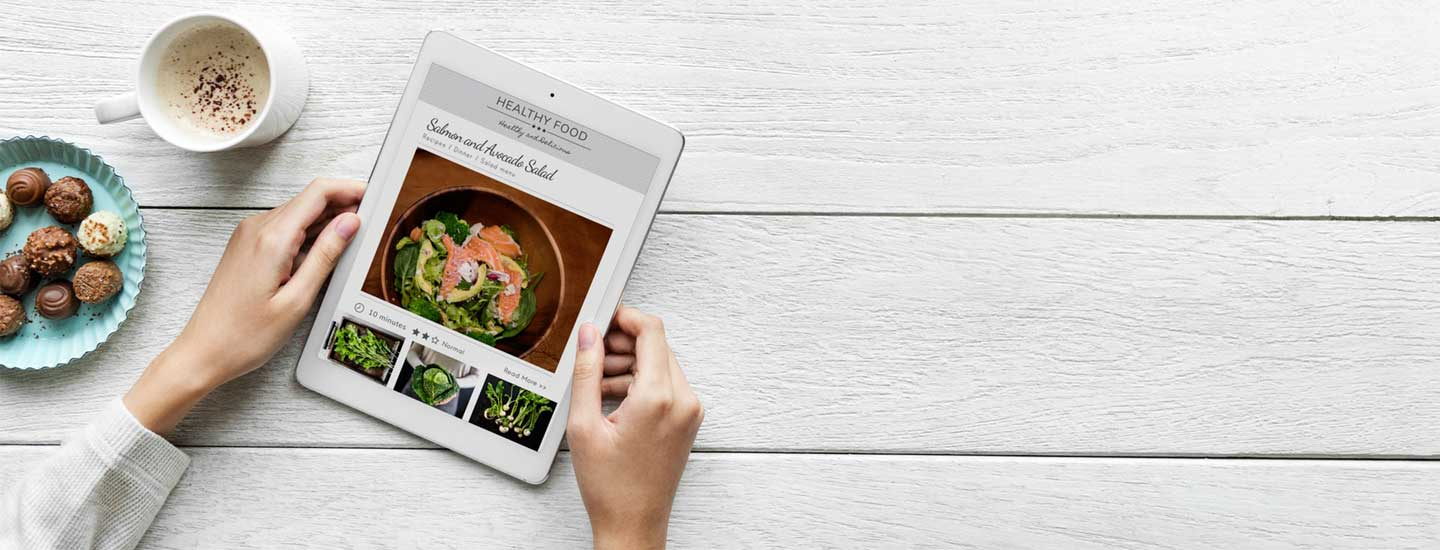
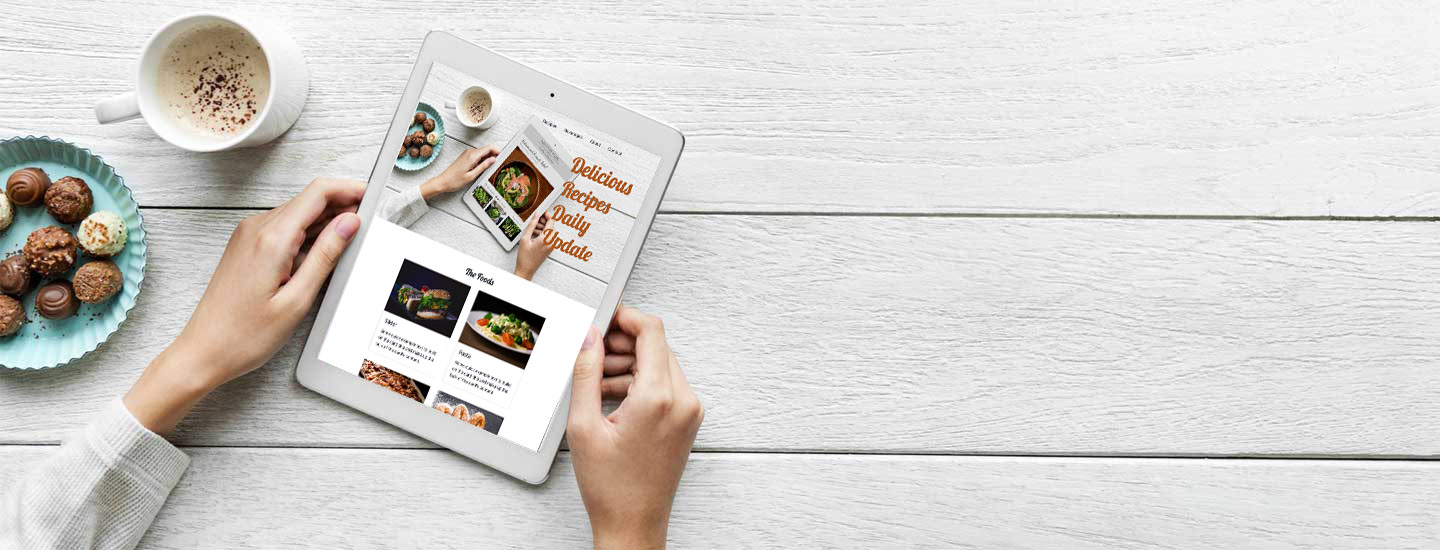
update images folder and add content on html and style

Changed region(s): [[0.2188, 0.1236, 0.4688, 0.8345]]

diff --git a/index.html b/index.html
@@ -2,7 +2,7 @@
 <html lang="en">
 
 <head>
-    <title>Title</title>
+    <title>The Recipes</title>
     <!-- Required meta tags -->
     <meta charset="utf-8">
     <meta name="viewport" content="width=device-width, initial-scale=1, shrink-to-fit=no">
@@ -21,8 +21,8 @@
         <!-- navigation link -->
         <div class="container">
             <nav class="nav float-right">
-                <a class="nav-link text-dark" href="#recipes">Recipes</a>
-                <a class="nav-link text-dark" href="#blog">Blog</a>
+                <a class="nav-link text-dark" href="#recipe">Recipes</a>
+                <a class="nav-link text-dark" href="#blog">Beverages</a>
                 <a class="nav-link text-dark" href="#about">About</a>
                 <a class="nav-link text-dark" href="#contct">Contact</a>
             </nav>
@@ -35,13 +35,16 @@
     </div>
 
     <!-- recipes title and card -->
-    <h2 class="display-5 font-weight-bold text-center text-dark"><u>The Recipes</u></h2>
-
+    <div id="recipe">
+        <h2 class="display-5 font-weight-bold text-center text-dark">The Foods</h2>
+    </div>
     <div class="justify-content-center d-flex align-content-center flex-wrap">
         <div class="card" style="width: 18rem;">
             <img class="card-img-top" src="./images/slider.jpeg" alt="slider_image">
             <div class="card-body">
-                <h5 class="card-title"><a  class="text-dark" href="#slider">Slider</a></h5>
+                <h5 class="card-title">
+                    <a class="text-dark" href="#slider">Slider</a>
+                </h5>
                 <p class="card-text">Some quick example text to build on the card title and make up the bulk of the card's content.</p>
             </div>
         </div>
@@ -49,7 +52,9 @@
         <div class="card" style="width: 18rem;">
             <img class="card-img-top" src="./images/pasta.jpg" alt="pasta_image">
             <div class="card-body">
-                <h5 class="card-title"><a class="text-dark" href="#pasta">Pasta</a></h5>
+                <h5 class="card-title">
+                    <a class="text-dark" href="#pasta">Pasta</a>
+                </h5>
                 <p class="card-text">Some quick example text to build on the card title and make up the bulk of the card's content.</p>
             </div>
         </div>
@@ -57,7 +62,9 @@
         <div class="card" style="width: 18rem;">
             <img class="card-img-top" src="./images/pizza.jpeg" alt="pizza_image">
             <div class="card-body">
-                <h5 class="card-title"><a class="text-dark" href="#pizza">Pizza</a></h5>
+                <h5 class="card-title">
+                    <a class="text-dark" href="#pizza">Pizza</a>
+                </h5>
                 <p class="card-text">Some quick example text to build on the card title and make up the bulk of the card's content.</p>
             </div>
         </div>
@@ -65,12 +72,70 @@
         <div class="card" style="width: 18rem;">
             <img class="card-img-top" src="./images/churros.jpeg" alt="churros_image">
             <div class="card-body">
-                <h5 class="card-title"><a class="text-dark" href="#churros">Churros</a></h5>
+                <h5 class="card-title">
+                    <a class="text-dark" href="#churros">Churros</a>
+                </h5>
                 <p class="card-text">Some quick example text to build on the card title and make up the bulk of the card's content.</p>
             </div>
         </div>
     </div>
-    <a class="text-dark float-right mr-5" href="#viewmore">View more >></a>
+
+    <div class="text-left">
+        <a class="text-dark float-right mr-5 mb-3" href="#viewmore">View more..</a>
+    </div>
+
+
+
+    <!-- the beverages -->
+    <div id="beverages">
+        <h2 class="display-5 font-weight-bold text-center text-dark mt-5">The Beverages</h2>
+    </div>
+
+    <div class="justify-content-center d-flex align-content-center flex-wrap">
+        <div class="card" style="width: 18rem;">
+            <img class="card-img-top" src="./images/mojitos.jpeg" alt="mojitos_image">
+            <div class="card-body">
+                <h5 class="card-title">
+                    <a class="text-dark" href="#churros">Mojitos</a>
+                </h5>
+                <p class="card-text">Some quick example text to build on the card title and make up the bulk of the card's content.</p>
+            </div>
+        </div>
+
+        <div class="card" style="width: 18rem;">
+            <img class="card-img-top" src="./images/smoothies.jpeg" alt="smoothies_image">
+            <div class="card-body">
+                <h5 class="card-title">
+                    <a class="text-dark" href="#churros">Smoothies</a>
+                </h5>
+                <p class="card-text">Some quick example text to build on the card title and make up the bulk of the card's content.</p>
+            </div>
+        </div>
+
+        <div class="card" style="width: 18rem;">
+            <img class="card-img-top" src="./images/shake.jpeg" alt="shake_image">
+            <div class="card-body">
+                <h5 class="card-title">
+                    <a class="text-dark" href="#churros">Milkshake</a>
+                </h5>
+                <p class="card-text">Some quick example text to build on the card title and make up the bulk of the card's content.</p>
+            </div>
+        </div>
+
+        <div class="card" style="width: 18rem;">
+            <img class="card-img-top" src="./images/cappuccino.jpeg" alt="cappuccino_image">
+            <div class="card-body">
+                <h5 class="card-title">
+                    <a class="text-dark" href="#churros">Churros</a>
+                </h5>
+                <p class="card-text">Some quick example text to build on the card title and make up the bulk of the card's content.</p>
+            </div>
+        </div>
+    </div>
+
+
+
+    <!-- blog post -->
 
 
     <!-- Optional JavaScript -->

diff --git a/index.css b/index.css
@@ -7,7 +7,8 @@ body {
     border-radius: 10px;
 }
 
-h1 {
+h1,
+h2 {
    font-family: 'Lobster', cursive; 
 }
 
